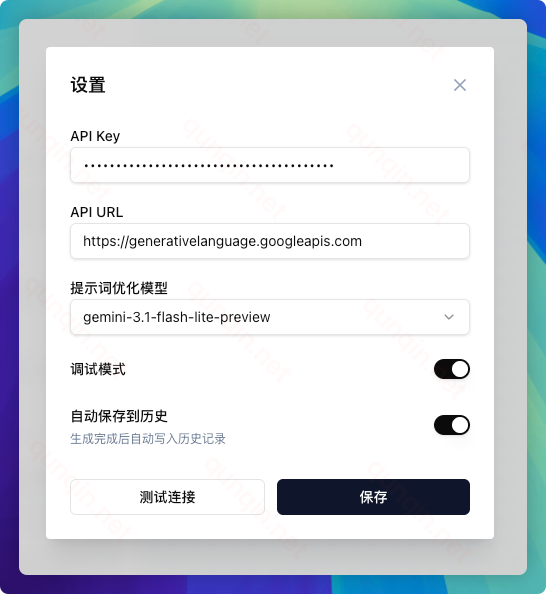
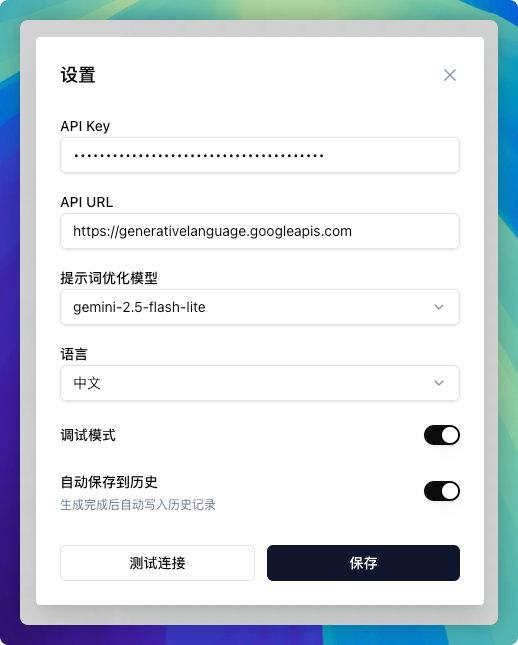
Add multi-language support description to README

diff --git a/README.md b/README.md
@@ -25,6 +25,9 @@ AI automatically optimizes your prompts for more accurate generation results.
 ### Real-time Search Enhancement
 Connect to Google Search for real-time information to assist image generation.
 
+### Multi-language Support
+Supports 7 languages: English, 简体中文, 日本語, 한국어, Français, Deutsch, Español. Language can be switched in settings, and prompt optimization will output in the corresponding language.
+
 ## Interface Preview
 
 **Home** - Enter descriptions, adjust parameters, upload reference images, and generate AI images with one click.
